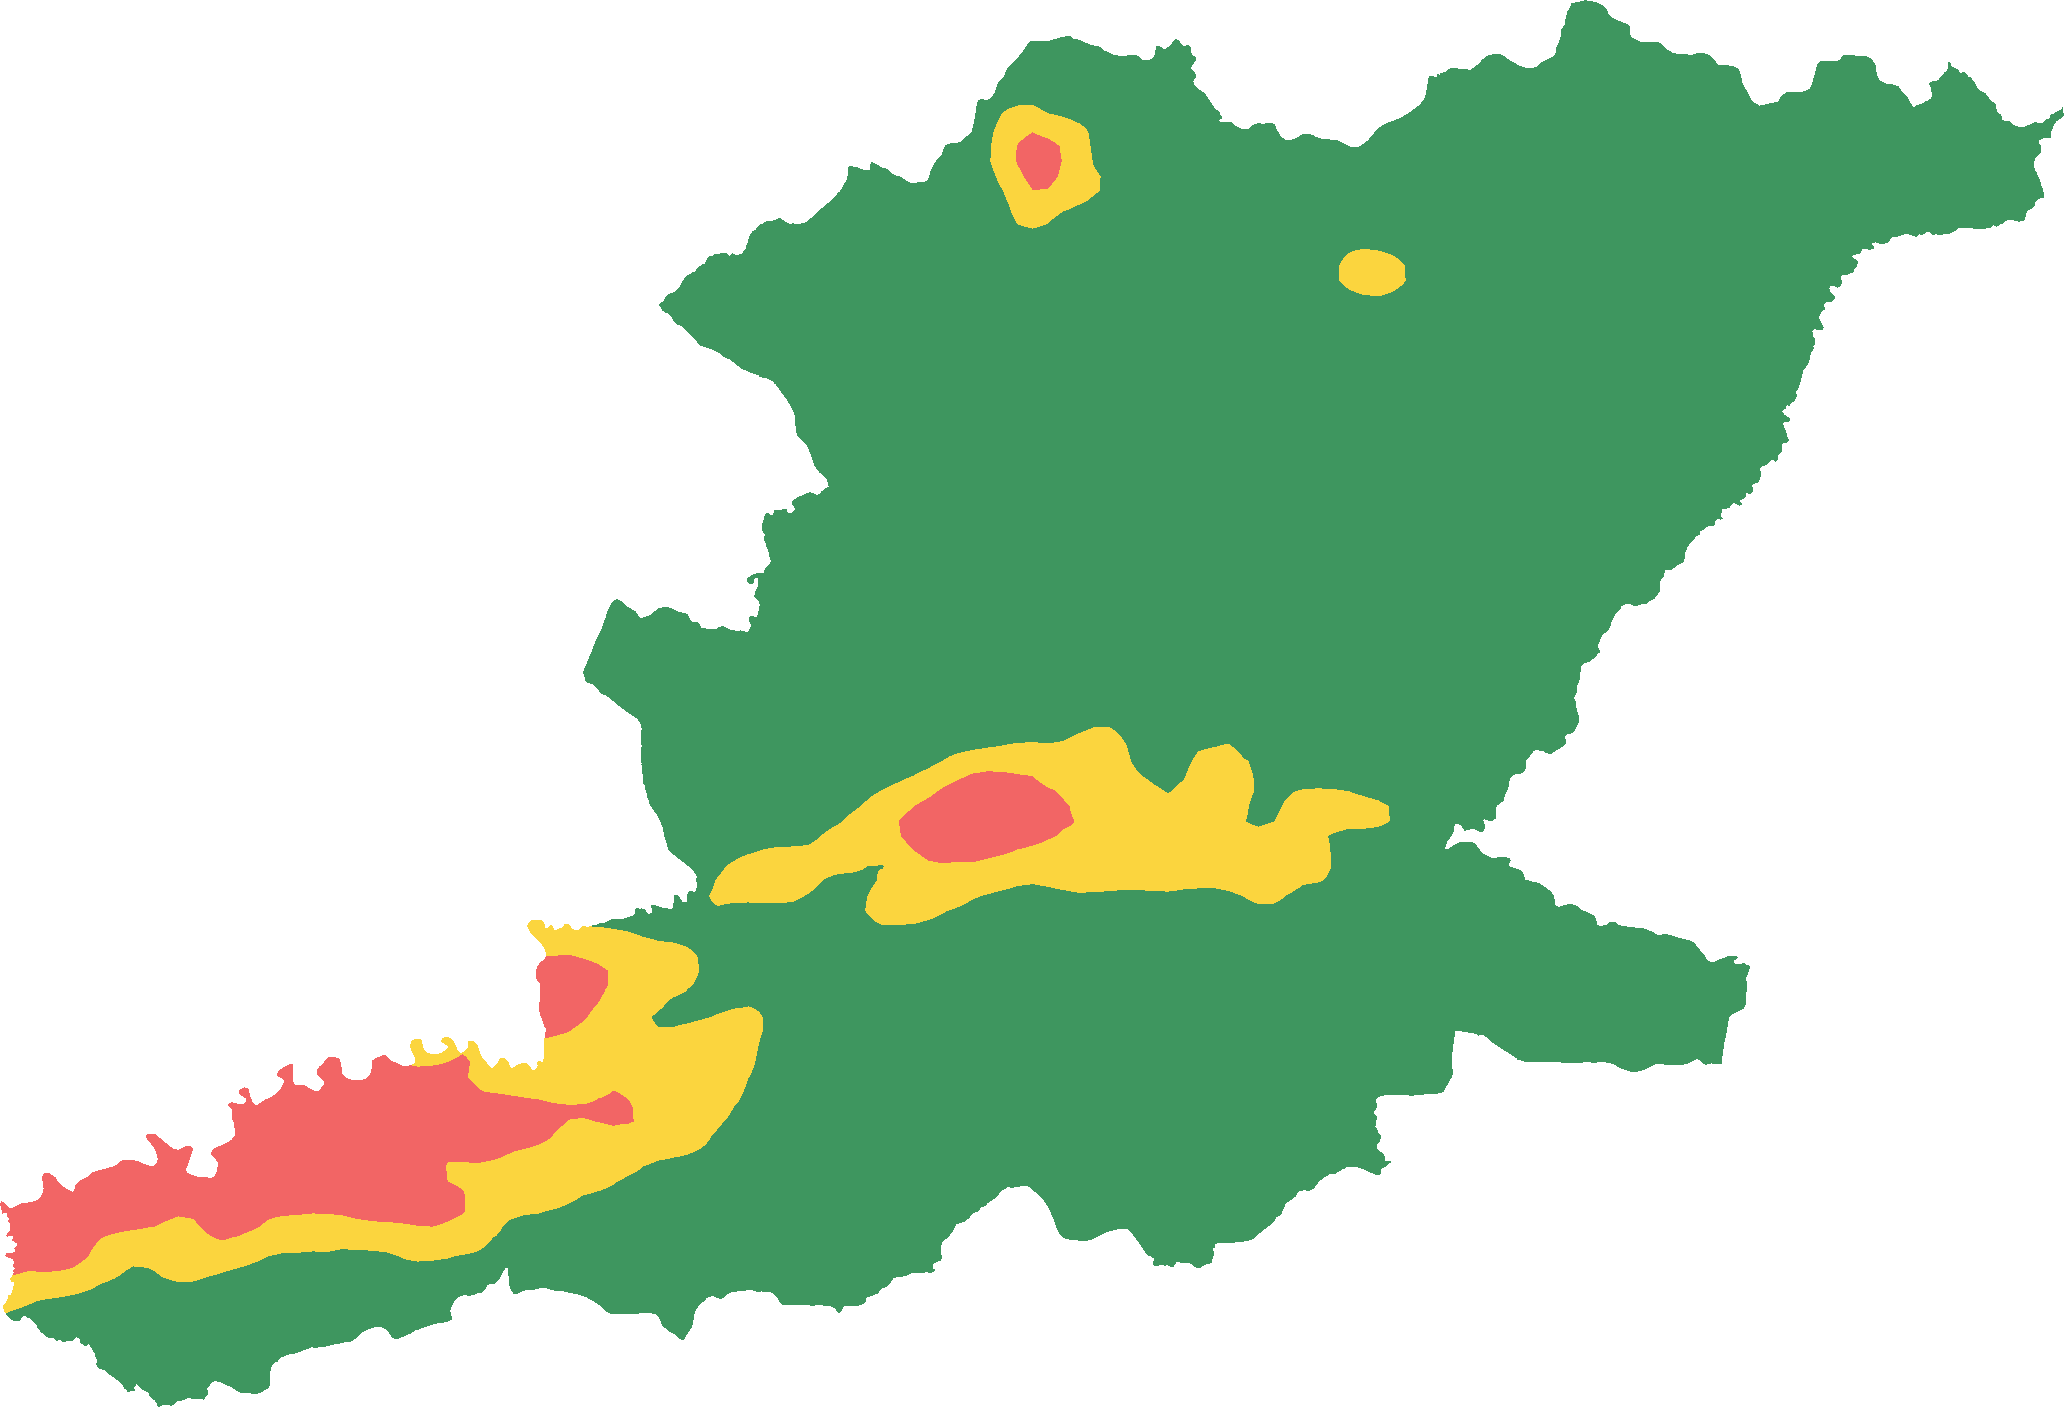
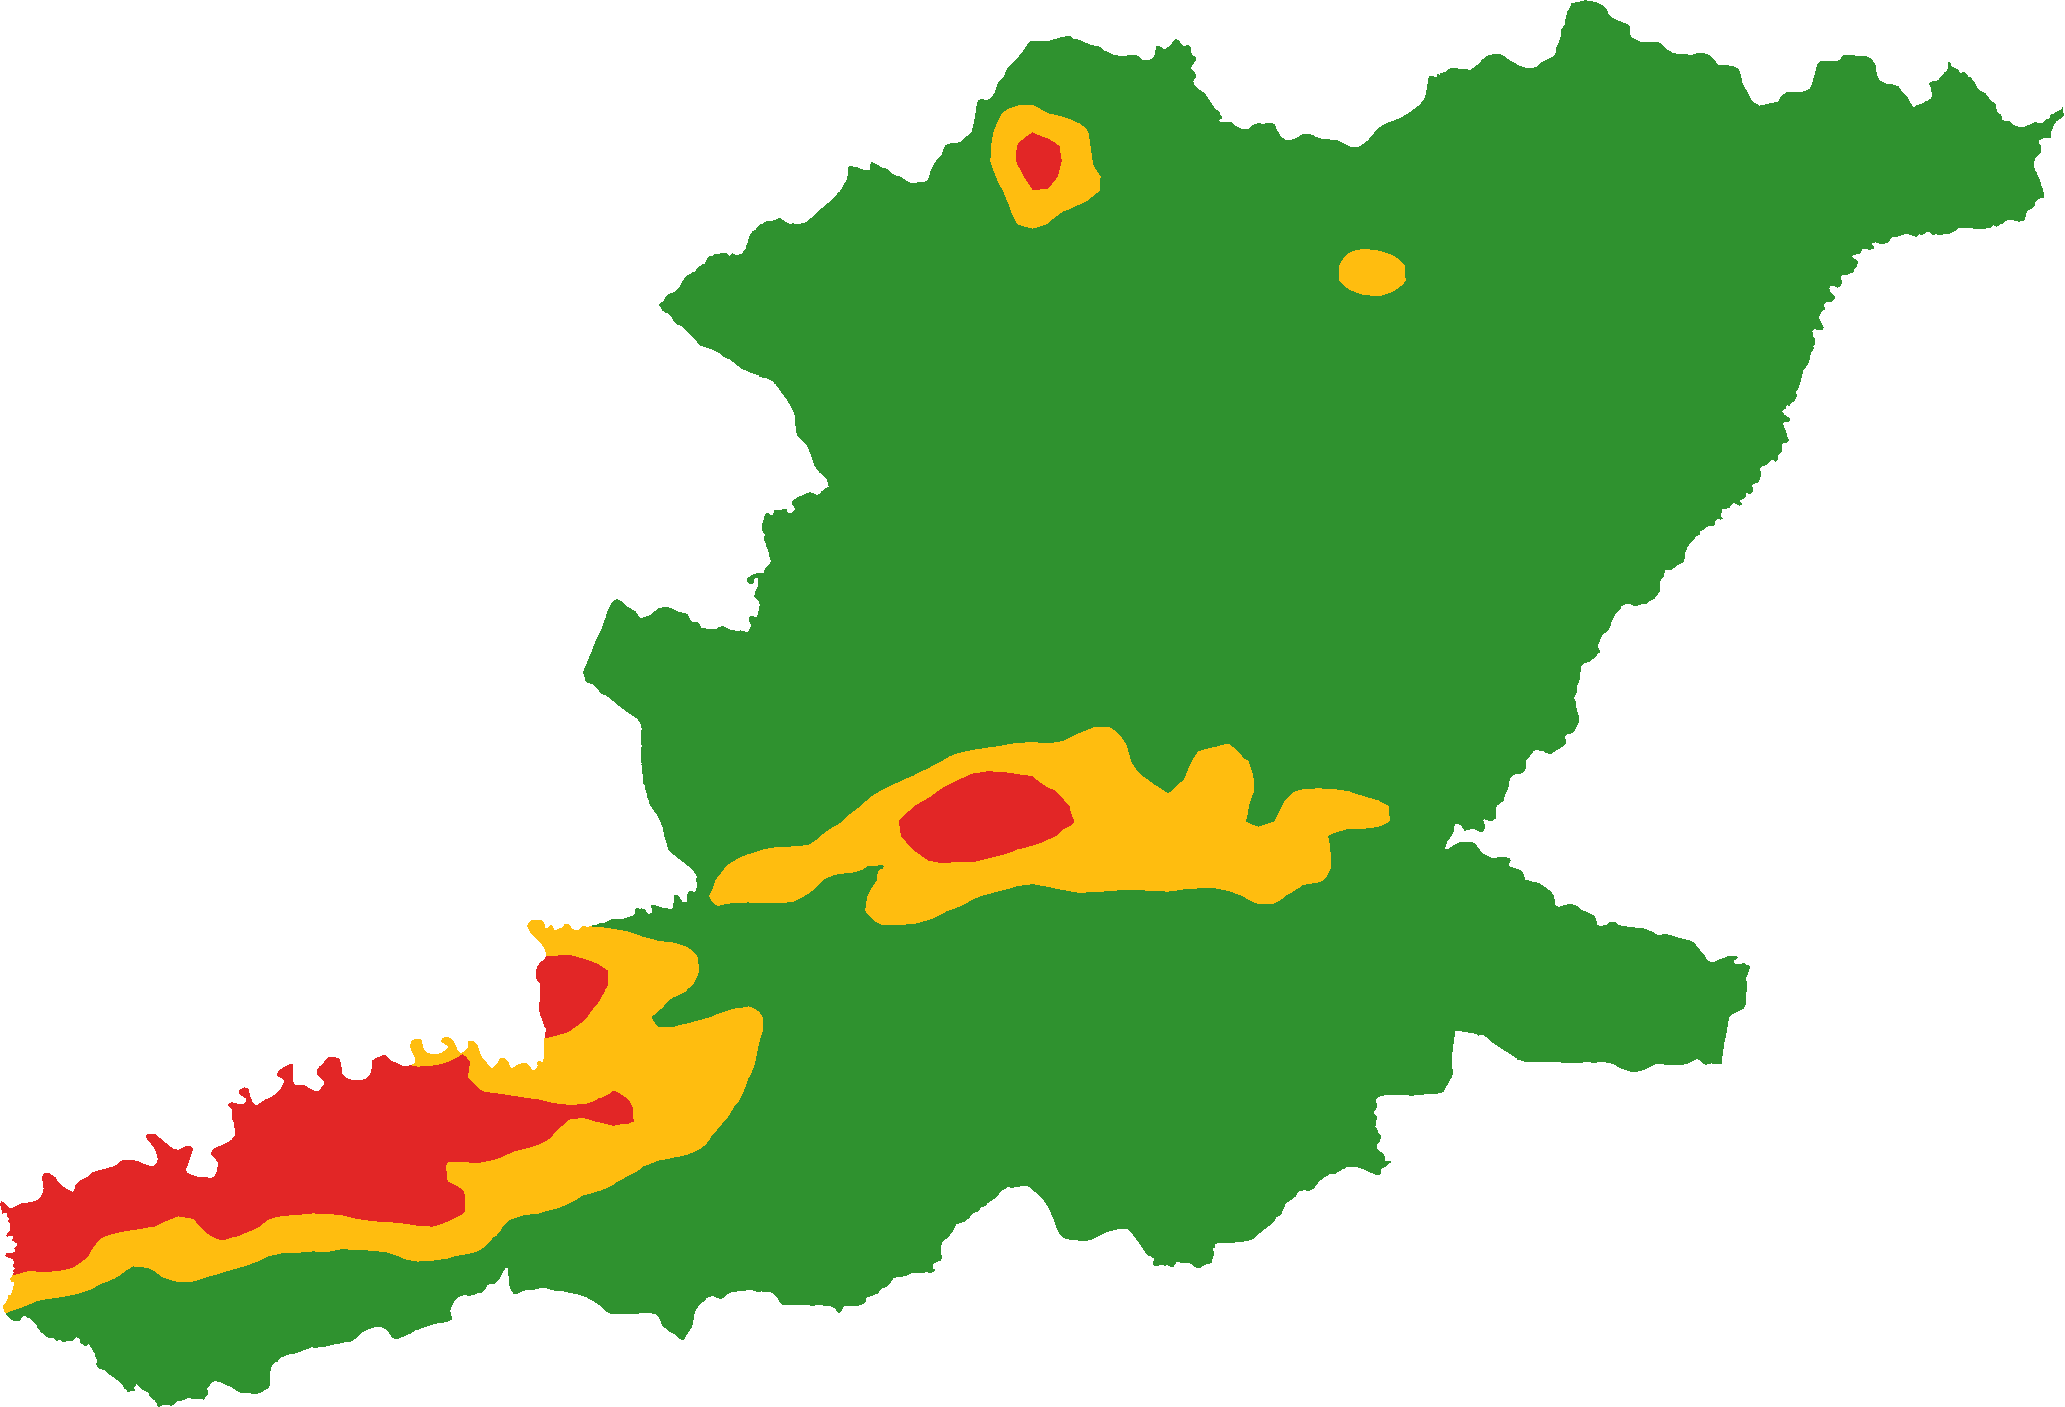
fix(map): remove pink tone from hazard overlay, use rich pure crimson red (#e11d1d) and warm amber gold; remove unused palette box from left sidebar

diff --git a/src/components/LeftSidebar.tsx b/src/components/LeftSidebar.tsx
@@ -739,43 +739,6 @@ export const LeftSidebar: React.FC<LeftSidebarProps> = ({
               />
             </div>
 
-            {/* Active Legend Palette Preview */}
-            <div className="bg-white border border-slate-200 rounded-xl p-3 space-y-2 shadow-xs">
-              <div className="flex items-center justify-between text-[11px] font-bold text-slate-700 uppercase tracking-wider">
-                <span>Palet {HAZARD_LAYERS[selectedHazard].name}</span>
-                <span className="text-[10px] text-emerald-700 font-mono">
-                  {hazardRenderMode === 'class' ? 'Raster Diskrit' : 'Raster Kontinu'}
-                </span>
-              </div>
-
-              <div className="space-y-1 font-sans">
-                {/* Top scale values: 0, 0.3, 0.6, 1 */}
-                <div className="flex justify-between text-[9px] font-mono font-bold text-slate-800 px-0.5">
-                  <span>0</span>
-                  <span className="-ml-1">0.3</span>
-                  <span className="ml-1">0.6</span>
-                  <span>1</span>
-                </div>
-
-                {/* Gradient scale bar */}
-                <div
-                  className="relative h-5 border-2 border-slate-900 overflow-hidden shadow-2xs"
-                  style={{
-                    background: 'linear-gradient(to right, #006400 0%, #7cb342 30%, #ffee58 35%, #ff9800 60%, #ef4444 100%)',
-                  }}
-                >
-                  <div className="absolute top-0 bottom-0 left-[30%] w-[1.5px] bg-slate-900" />
-                  <div className="absolute top-0 bottom-0 left-[60%] w-[1.5px] bg-slate-900" />
-                </div>
-
-                {/* Category boxes */}
-                <div className="grid grid-cols-[30%_30%_40%] border-2 border-slate-900 border-t-0 text-center font-extrabold text-[9px] tracking-wider text-slate-900 bg-white">
-                  <div className="py-0.5 border-r-2 border-slate-900">RENDAH</div>
-                  <div className="py-0.5 border-r-2 border-slate-900">SEDANG</div>
-                  <div className="py-0.5">TINGGI</div>
-                </div>
-              </div>
-            </div>
           </>
         ) : (
           /* RADAR INVEST TAB (DUNIA USAHA) */
